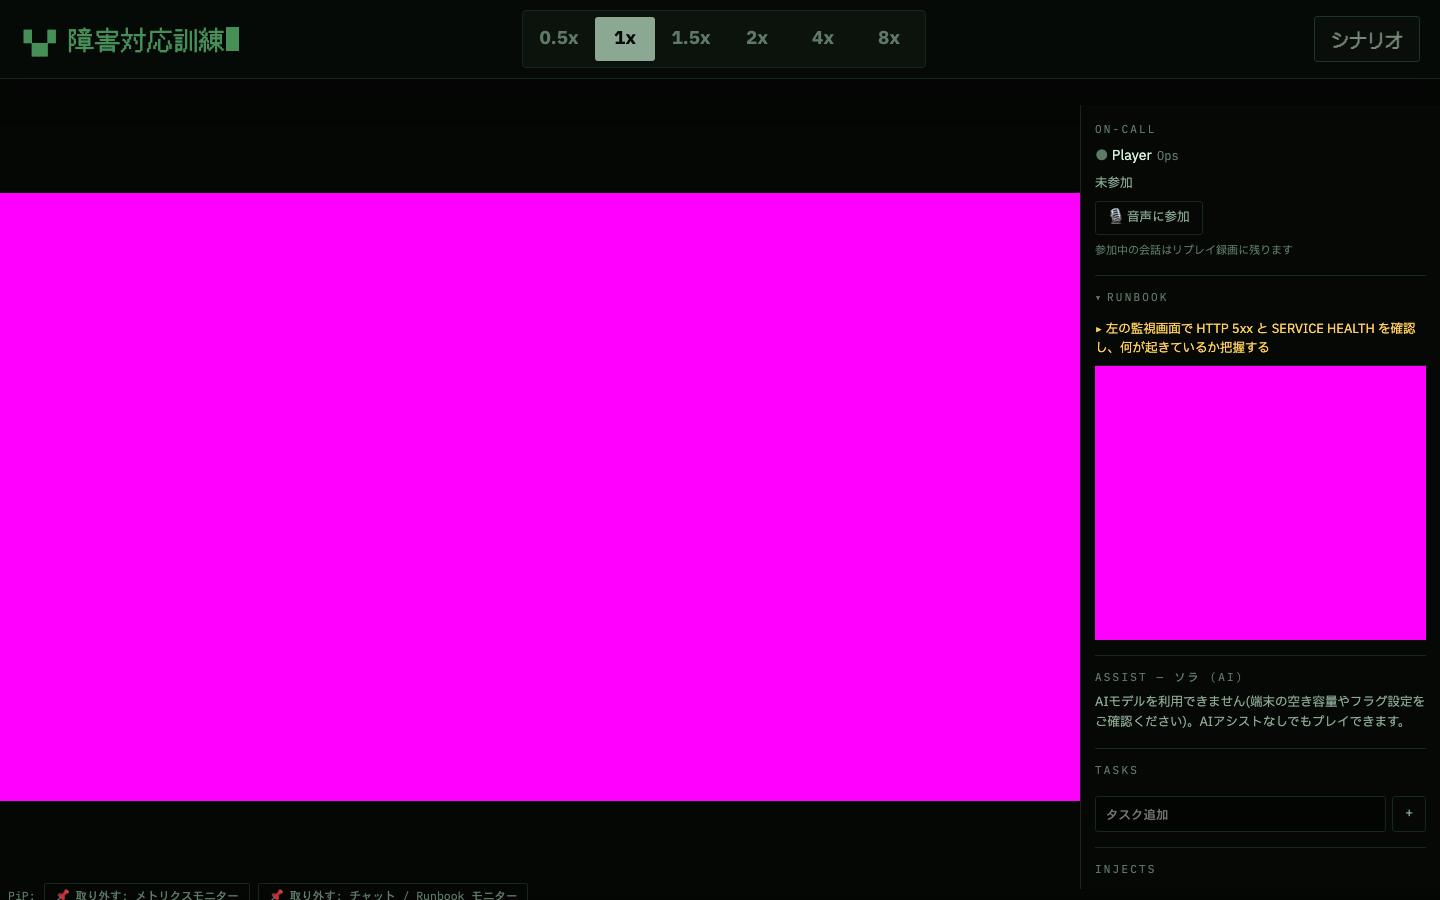
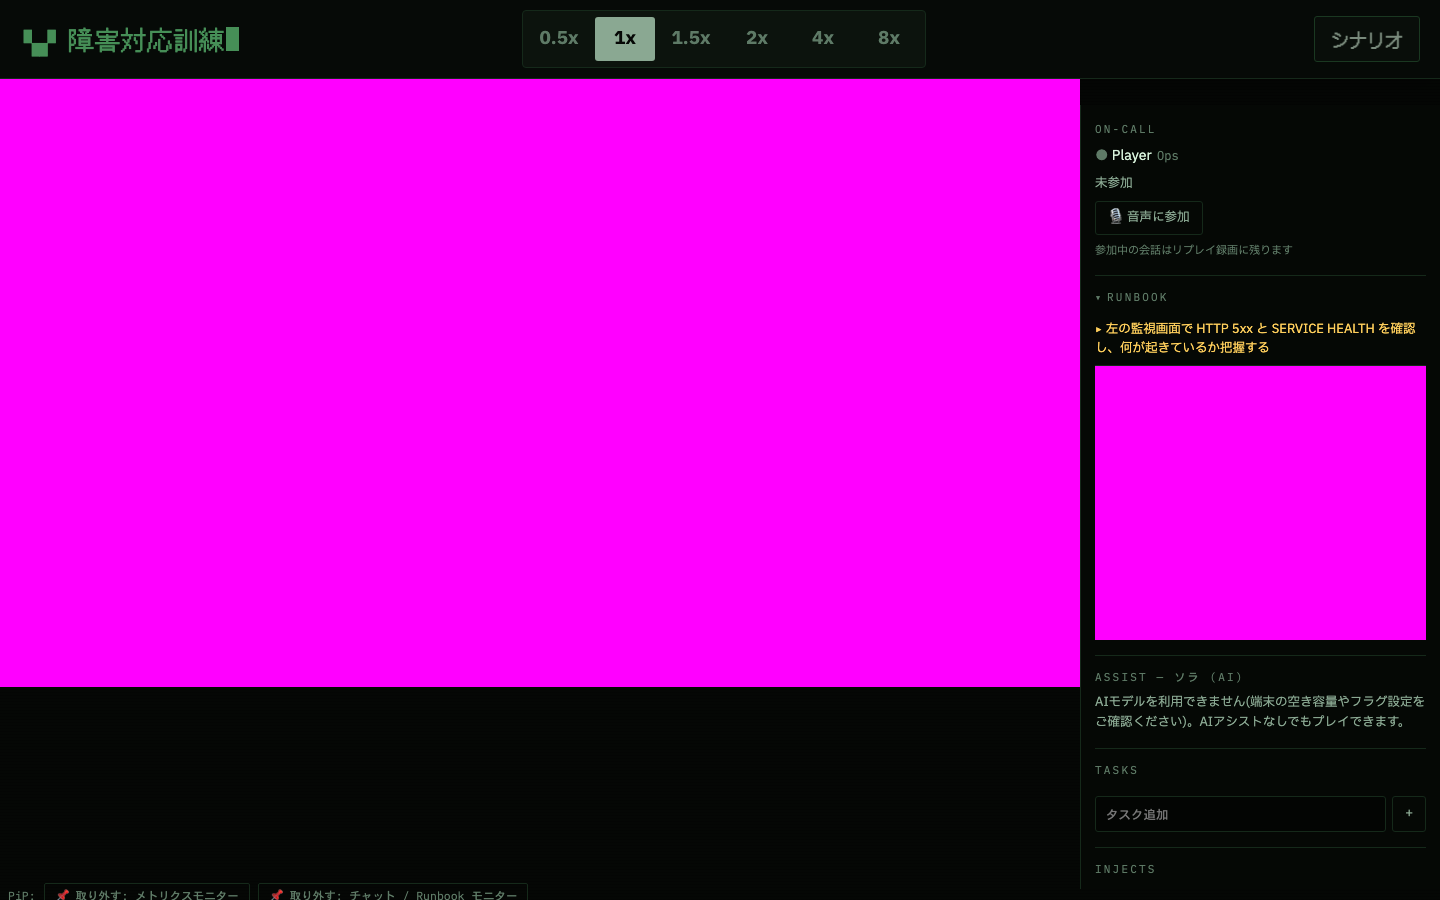
fix: プレイ画面の表示3件(NAVカード見切れ・上部黒帯・手順書タイトル二重)
- NAVカードをINPUTドックの後に描画するよう順序を修正し、y840へ移動(ドック背景による上塗りで下半分が消えていた)
- .canvas-stageを上寄せにしてcanvas上部の黒帯を除去
- 手順書パネルの本文見出しを削除(切替チップとタイトルが二重表示だった)
- play VRT基準(darwin)再生成

Claude-Session: https://claude.ai/code/session_01BCWEmyftJ2cyYCSkUuRL1Z

Changed region(s): [[0.0, 0.7467, 0.75, 0.9022], [0.0, 0.0622, 0.75, 0.2178]]

diff --git a/apps/web/src/game/render/canvasRenderRightPanel.ts b/apps/web/src/game/render/canvasRenderRightPanel.ts
@@ -39,17 +39,14 @@ export function drawRightPanel(
 
   if (activePanelTab === 'runbook') {
     drawRunbookDocumentTabs(surface, state, runbooks, layout.secondaryTop);
-    const titleTop = layout.contentTop;
-    const bodyTop = titleTop + 36;
+    const bodyTop = layout.contentTop;
     const maxRunbookLines = Math.max(
       10,
       Math.floor((monitorContentHeight - bodyTop - 16) / 24)
     );
     surface.ctx.fillStyle = palette.textPrimary;
-    surface.ctx.font = uiFont(22);
+    surface.ctx.font = uiFont(17);
     if (runbooks.length === 0) {
-      surface.ctx.fillText('Runbook', 0, titleTop);
-      surface.ctx.font = uiFont(17);
       wrapText(
         surface.ctx,
         'Runbook はまだ届いていない。',
@@ -61,12 +58,6 @@ export function drawRightPanel(
       );
       return;
     }
-    surface.ctx.fillText(
-      state.monitors.right.activeRunbook?.title ?? 'Runbook',
-      0,
-      titleTop
-    );
-    surface.ctx.font = uiFont(17);
     wrapText(
       surface.ctx,
       state.monitors.right.activeRunbook?.body ?? '',

diff --git a/apps/web/src/game/render/canvasRenderer.ts b/apps/web/src/game/render/canvasRenderer.ts
@@ -228,8 +228,8 @@ export class CanvasRenderer {
       if (state.warning && state.warning.flashMs > 0) {
         drawCommandWarning(surface, state.warning);
       }
-      drawNavigationOverlay(surface, state, scenario);
       drawInputDock(surface, state);
+      drawNavigationOverlay(surface, state, scenario);
       drawNotifications(surface, state, viewModel);
       if (state.world.expandedMonitor) {
         drawExpandedMonitorOverlay(surface, state, scenario, viewModel);

diff --git a/apps/web/src/pure/canvasLayout.ts b/apps/web/src/pure/canvasLayout.ts
@@ -261,7 +261,7 @@ export const retireConfirmButtonRects = {
 
 export const navigationOverlayRect = {
   x: 720,
-  y: 860,
+  y: 840,
   width: 480,
   height: 120,
 } as const;

diff --git a/apps/web/src/styles/app.css b/apps/web/src/styles/app.css
@@ -645,7 +645,7 @@ button:disabled {
 .canvas-stage {
   position: relative;
   display: flex;
-  align-items: center;
+  align-items: flex-start;
   justify-content: center;
   width: 100%;
   min-width: 0;